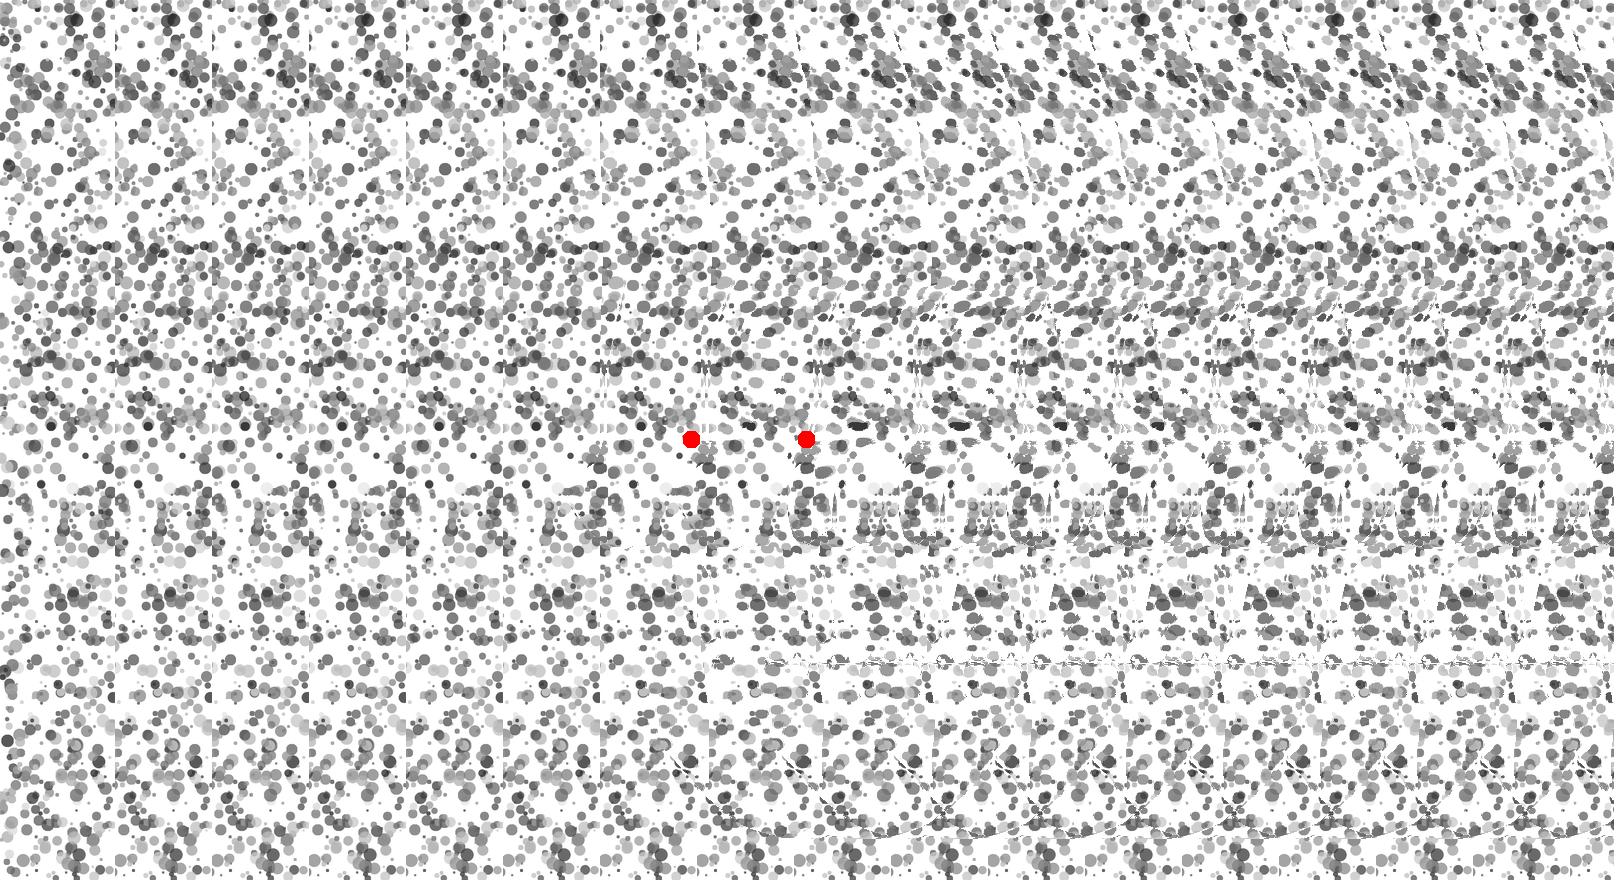
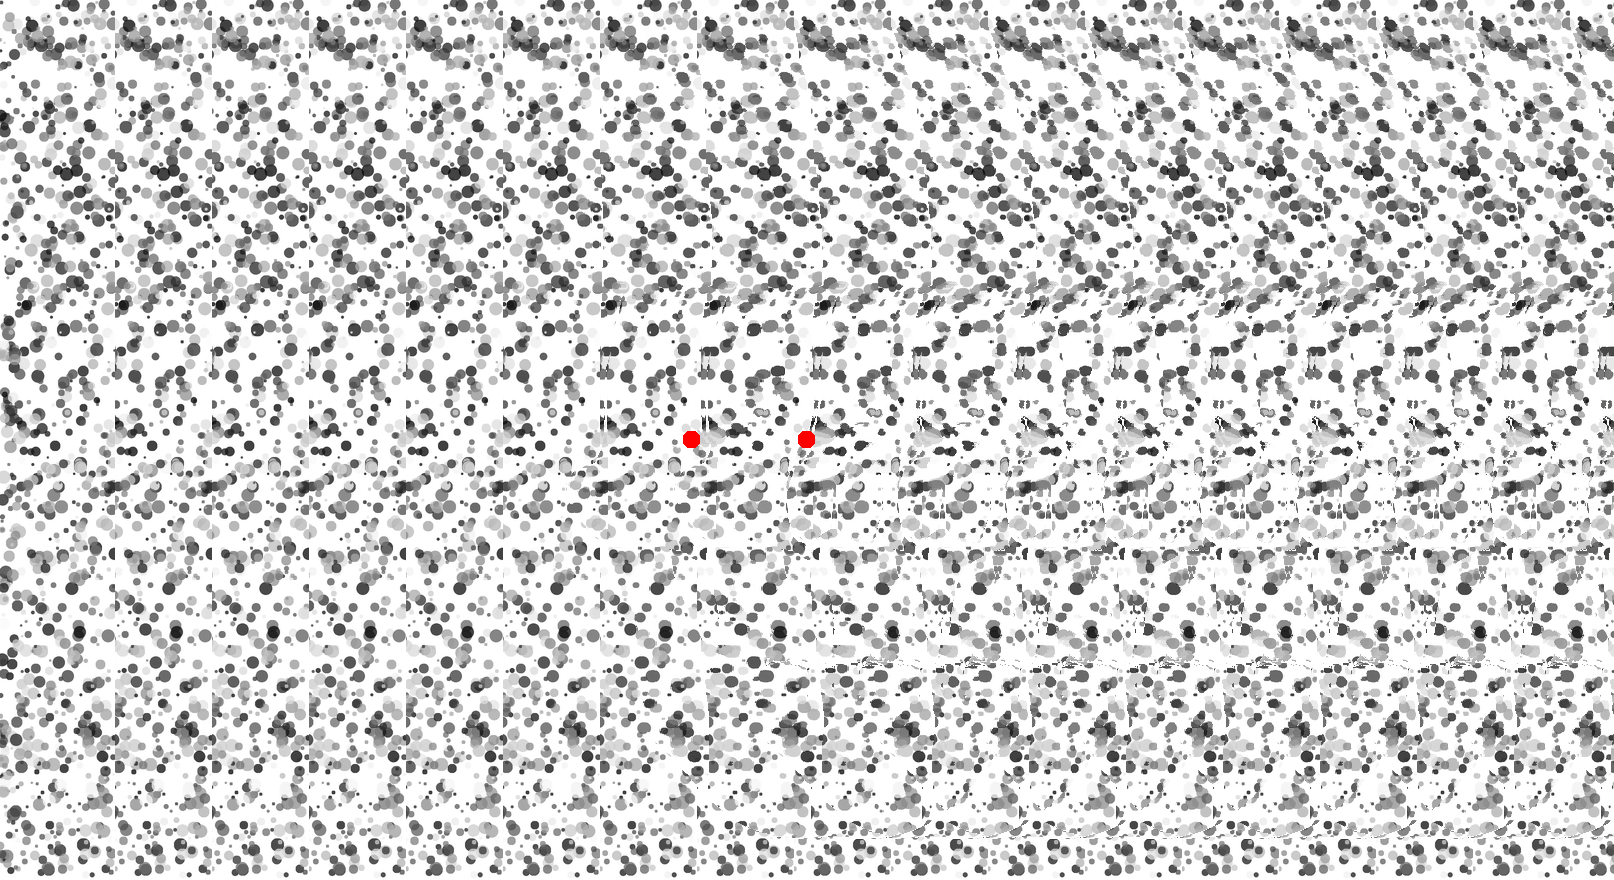
polish TFM and add it to README

diff --git a/pyllusion/movement/motiontransparency.py b/pyllusion/movement/motiontransparency.py
@@ -1,32 +1,44 @@
 import numpy as np
+
+from ..image import image_circle, image_circles
 from .movement_matrix import movement_matrix
-from ..image import image_circles, image_circle
 
 
-def motiontransparency_images(parameters=None, **kwargs):
+def motiontransparency_images(parameters=None, width=800, height=500, **kwargs):
     """
     >>> import pyllusion as ill
     >>>
-    >>> parameters = ill.motiontransparency_parameters(angle=45, duration=4, n=10, fps=10)
+    >>> parameters = ill.motiontransparency_parameters(angle=45, duration=4, n=100, fps=20, speed=2)
     >>> images = ill.motiontransparency_images(parameters)
     >>> ill.images_to_gif(images, path="Transparency_From_Motion.gif", fps=parameters["FPS"])
     """
     if parameters is None:
-        motiontransparency_parameters(**kwargs)
+        parameters = motiontransparency_parameters(**kwargs)
+
+    # Adjust for screen ratio
+    if width is not None and height is not None:
+        parameters["x"] = parameters["x"] * (height / width)
 
     # Generate PIL images
     images = []
     for i in range(parameters["n_Frames"]):
+        # Print progression
         if i % 10 == 0:
             print("- %.2f%%" % (i / parameters["n_Frames"] * 100))
+
+        # Background circle
         image = image_circle(
+            width=width,
+            height=height,
+            size=1,
             color="grey",
-            outline=3,
+            outline=0,
             color_outline="red",
-            background="grey",
+            background=(100, 100, 100),
             antialias=True,
         )
 
+        # Draw points
         image = image_circles(
             image=image,
             n=parameters["n_Points"],
@@ -34,7 +46,8 @@ def motiontransparency_images(parameters=None, **kwargs):
             y=parameters["y"][i],
             color="black",
             background="grey",
-            size=0.01,
+            size=0.015,
+            antialias=False,
         )
 
         images.append(image)
@@ -49,14 +62,15 @@ def motiontransparency_parameters(angle=None, n=200, duration=0.5, fps=60, speed
 
     if angle is None:
         angle = np.random.uniform(0, 360)
-    angles = np.array([angle] * int(n / 2) + [-angle] * int(n / 2))
+    angles = np.array([angle] * int(n / 2) + [180 + angle] * int(n / 2))
+
     x, y = movement_matrix(
         n=n,
         n_frames=n_frames,
         angle=angles,
         speed=speed,
         keep_in_window=False,
-        keep_in_circle=1,
+        keep_in_circle=0.5,
     )
 
     parameters = {

diff --git a/pyllusion/image/image_rectangle.py b/pyllusion/image/image_rectangle.py
@@ -2,7 +2,26 @@ import PIL.Image, PIL.ImageDraw, PIL.ImageFilter, PIL.ImageFont, PIL.ImageOps
 from .utilities import _color, _coord_rectangle
 
 
-def image_rectangle(width=800, height=600, x=0, y=0, size_width=1, size_height=1, rotate=0, color="black", outline=0, color_outline="black", background="white", alpha=1, blur=0, antialias=True, adjust_width=False, adjust_height=False, image=None, **kwargs):
+def image_rectangle(
+    width=800,
+    height=600,
+    x=0,
+    y=0,
+    size_width=1,
+    size_height=1,
+    rotate=0,
+    color="black",
+    outline=0,
+    color_outline="black",
+    background="white",
+    alpha=1,
+    blur=0,
+    antialias=True,
+    adjust_width=False,
+    adjust_height=False,
+    image=None,
+    **kwargs
+):
     """
     Parameters
     ----------
@@ -19,12 +38,12 @@ def image_rectangle(width=800, height=600, x=0, y=0, size_width=1, size_height=1
     """
     # Get image
     if image is None:
-        image  = PIL.Image.new('RGBA', (width, height), color = background)
+        image = PIL.Image.new("RGBA", (width, height), color=background)
     else:
         image = image.convert("RGBA")
     width, height = image.size
 
-    # Adjust size for ratio
+    # Adjust size for screen ratio
     if adjust_width is True:
         size_width = size_width * (height / width)
     if adjust_height is True:
@@ -35,14 +54,21 @@ def image_rectangle(width=800, height=600, x=0, y=0, size_width=1, size_height=1
         width, height = width * 3, height * 3
 
     # Create mask
-    mask = PIL.Image.new('RGBA', (width, height))
+    mask = PIL.Image.new("RGBA", (width, height))
     draw = PIL.ImageDraw.Draw(mask)
 
     # Get coordinates
-    coord = _coord_rectangle(mask, x=x, y=y, size_width=size_width, size_height=size_height)
+    coord = _coord_rectangle(
+        mask, x=x, y=y, size_width=size_width, size_height=size_height
+    )
 
     # Draw
-    draw.rectangle(coord, fill=_color(color, alpha=alpha, mode="RGBA"), width=outline, outline=color_outline)
+    draw.rectangle(
+        coord,
+        fill=_color(color, alpha=alpha, mode="RGBA"),
+        width=outline,
+        outline=color_outline,
+    )
 
     # Rotate
     if rotate != 0:
@@ -55,7 +81,6 @@ def image_rectangle(width=800, height=600, x=0, y=0, size_width=1, size_height=1
     # Blur the image a bit
     if blur > 0:
         mask = mask.filter(PIL.ImageFilter.GaussianBlur(blur * height))
-
 
     # Merge and return
     image = PIL.Image.alpha_composite(image, mask)

diff --git a/pyllusion/movement/movement_circles.py b/pyllusion/movement/movement_circles.py
@@ -17,6 +17,8 @@ def movement_circles(n=50, duration=2, fps=30, **kwargs):
     # Generate PIL images
     images = []
     for i in range(n_frames):
-        images.append(image_circles(n=n, x=x[i], y=y[i], **kwargs))
+        images.append(
+            image_circles(width=width, height=height, n=n, x=x[i], y=y[i], **kwargs)
+        )
 
     return images

diff --git a/pyllusion/movement/movement_matrix.py b/pyllusion/movement/movement_matrix.py
@@ -32,6 +32,7 @@ def movement_matrix(
     # Initialize arrays
     x = np.zeros((n_frames, n))
     y = np.zeros((n_frames, n))
+
     # Starting locations
     if keep_in_circle is not False:
         a = np.random.uniform(0, 1, n) * 2 * np.pi

diff --git a/README.md b/README.md
@@ -262,7 +262,7 @@ the number of circles `n`, their size range and their transparency with
 ``` python
 ill.autostereogram(stimulus="docs/img/depthmask.png",
                    pattern=ill.image_circles,
-                   blackwhite=True,
+                   color="blackwhite",
                    alpha=0.75,
                    size_min=0.005,
                    size_max=0.03,
@@ -271,13 +271,37 @@ ill.autostereogram(stimulus="docs/img/depthmask.png",
 
 ![](docs/img/README_autostereogram2.png)
 
-### Transparency from Motion
+### Transparency From Motion (TFM)
 
-  - **TO DO** *(consider helping\!)*
+In visual perception, the [**kinetic depth
+effect**](https://en.wikipedia.org/wiki/Kinetic_depth_effect) refers to
+the phenomenon whereby the three-dimensional structural form of an
+object can be perceived when the object is moving (Wallach & O’Connell,
+1953; [Mamassian &
+Wallace, 2010](https://jov.arvojournals.org/article.aspx?articleid=2191769)).
+One of its derivative is the **Transparency-From-Motion** illusion,
+consisting in the superposition of two dot clouds moving in different
+directions that results in the perception of two transparent layers (See
+;
+[Schütz, 2014](https://jov.arvojournals.org/article.aspx?articleid=2193903);
+[Wexler et
+al., 2015](https://www.pnas.org/content/pnas/112/48/14990.full.pdf);
+[Schütz &
+Mamassian, 2016](https://jov.arvojournals.org/article.aspx?articleid=2548036)
+and <http://lab-perception.org/demo/p/tfm> for a demo).
 
-### Pattern Detection in Motion
+``` python
+parameters = ill.motiontransparency_parameters(angle=45)
+images = ill.motiontransparency_images(parameters)
 
-  - **TO DO** *(consider helping\!)*
+ill.images_to_gif(images, path="Transparency_From_Motion.gif", fps=parameters["FPS"])
+```
+
+![](docs/img/README_TFM1.gif)
+
+<!-- ### Pattern Detection in Motion  -->
+
+<!-- - **TO DO** *(consider helping!)* -->
 
 ## References
 
